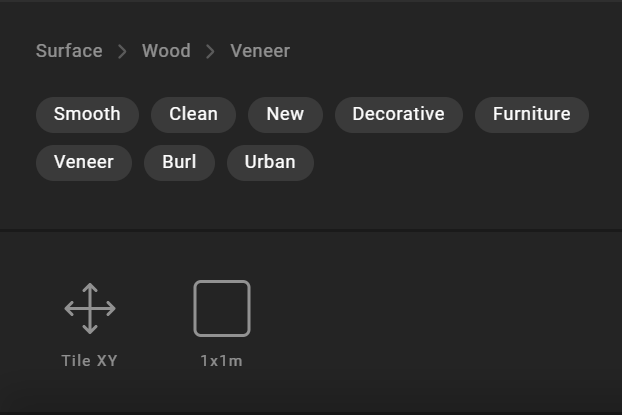
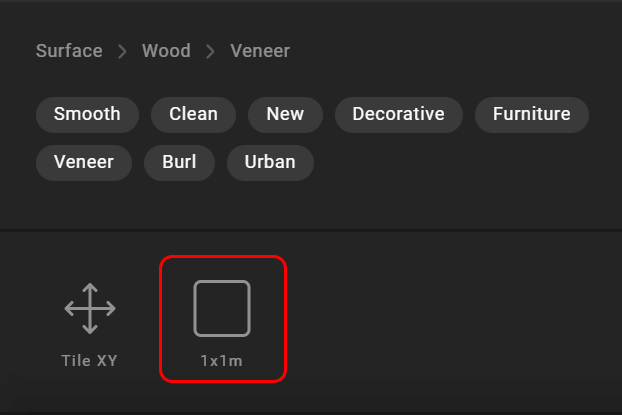
tip section for the texel desnsity edited

Changed region(s): [[0.2444, 0.6072, 0.4582, 0.9253], [0.4582, 0.6361, 0.4887, 0.8964]]

diff --git a/docs/source/parameters.rst b/docs/source/parameters.rst
@@ -141,13 +141,14 @@ Texture Resolution
     .. image:: images/03_parameters_material_texture.gif
         :width: 75%
 
-.. note::
+.. tip::
     Some texture resources (Megascans, Poliigon, Greyscale Gorilla etc.) include physical size of the texture in meters:
     
     .. image:: images/03_parameters_materials_uv_scale.png
-        :width: 75%
+        :width: 50%
 
-    Knowing texture resolution and it's physical size you can set perfect scale for your UVs. For the texture with the Resolution (R) 2048 pixels and Physical Size (S) 2m your target Texel Density = R / S = 2048px / 2m = 1024px/m
+    Knowing texture resolution and it's physical size you can set perfect scale for your UVs.
+    For the texture with the **Resolution** (R) **2048px** and **Physical Size** (S) **2m** your target **Texel Density** = R / S = 2048px / 2m = **1024px/m**
 
 .. warning::
     For the materials to work correctly for mapping, choose the **UV Map** node and select UVMap (in some cases, the **Realize Instances** option must be enabled in the Options sections).
